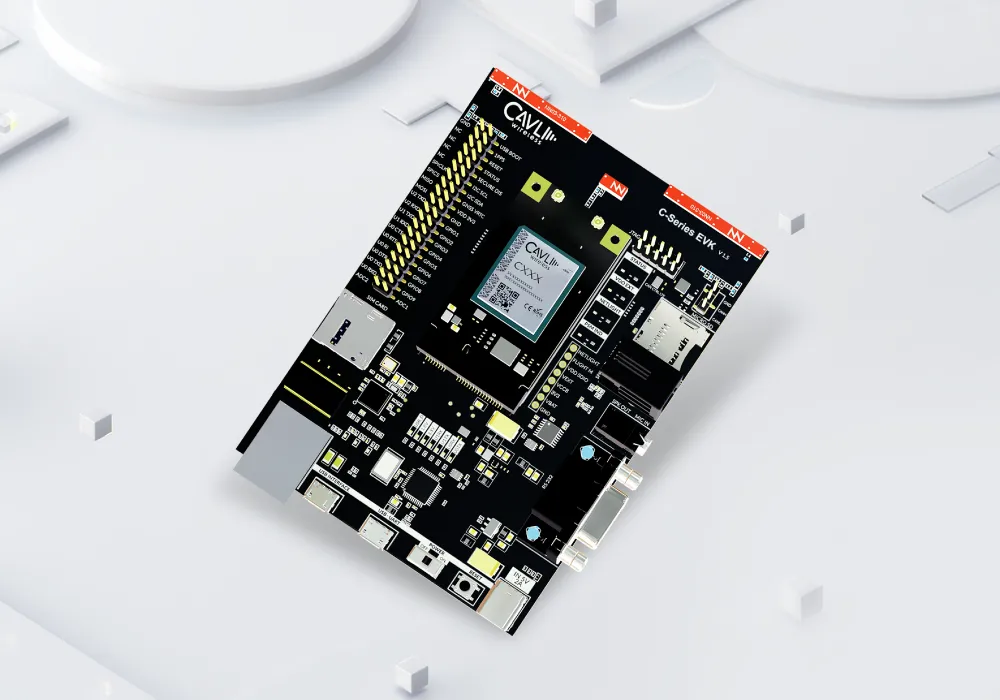
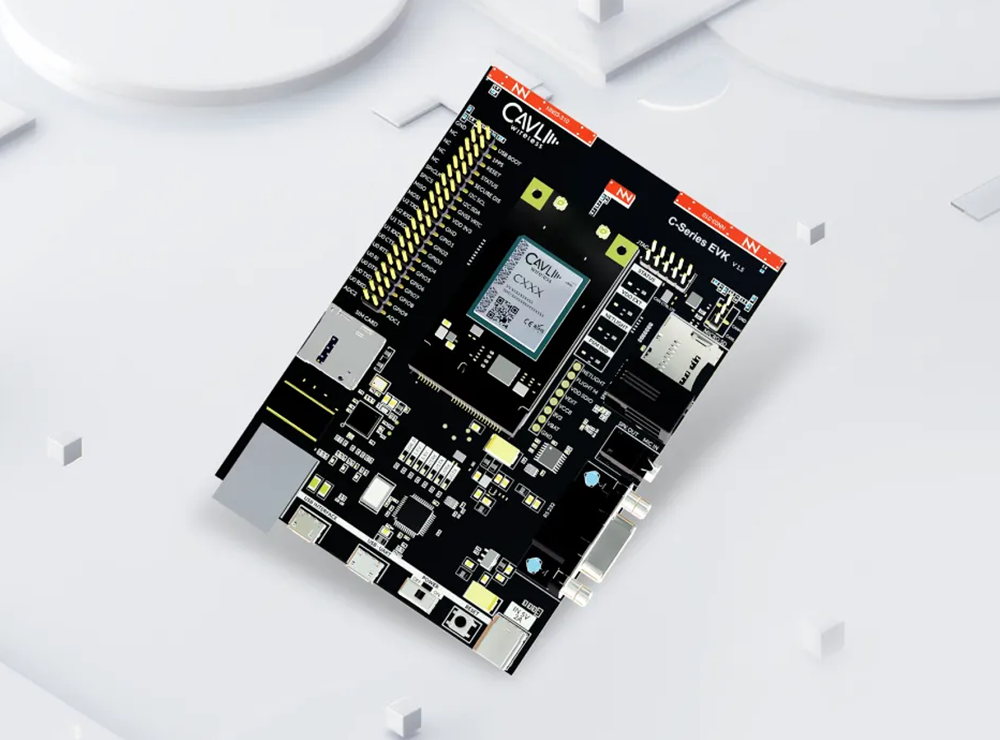
Images to recent project
Added images in the recent projects section

diff --git a/index.html b/index.html
@@ -425,9 +425,9 @@
                     </a>
                 </div>
                 <div class="col-lg-4 col-md-6 item mt-md-0 mt-4">
-                    <a href="assets/images/g2.jpg" data-lightbox="example-set" data-title="Project 2"
+                    <a href="assets/images/g2.png" data-lightbox="example-set" data-title="Project 2"
                         class="zoom d-block">
-                        <img class="card-img-bottom d-block" src="assets/images/g2.jpg" alt="Card image cap">
+                        <img class="card-img-bottom d-block" src="assets/images/g2.png" alt="Card image cap">
                         <span class="overlay__hover"></span>
                         <span class="hover-content">
                             <span class="title">Project 2</span>
